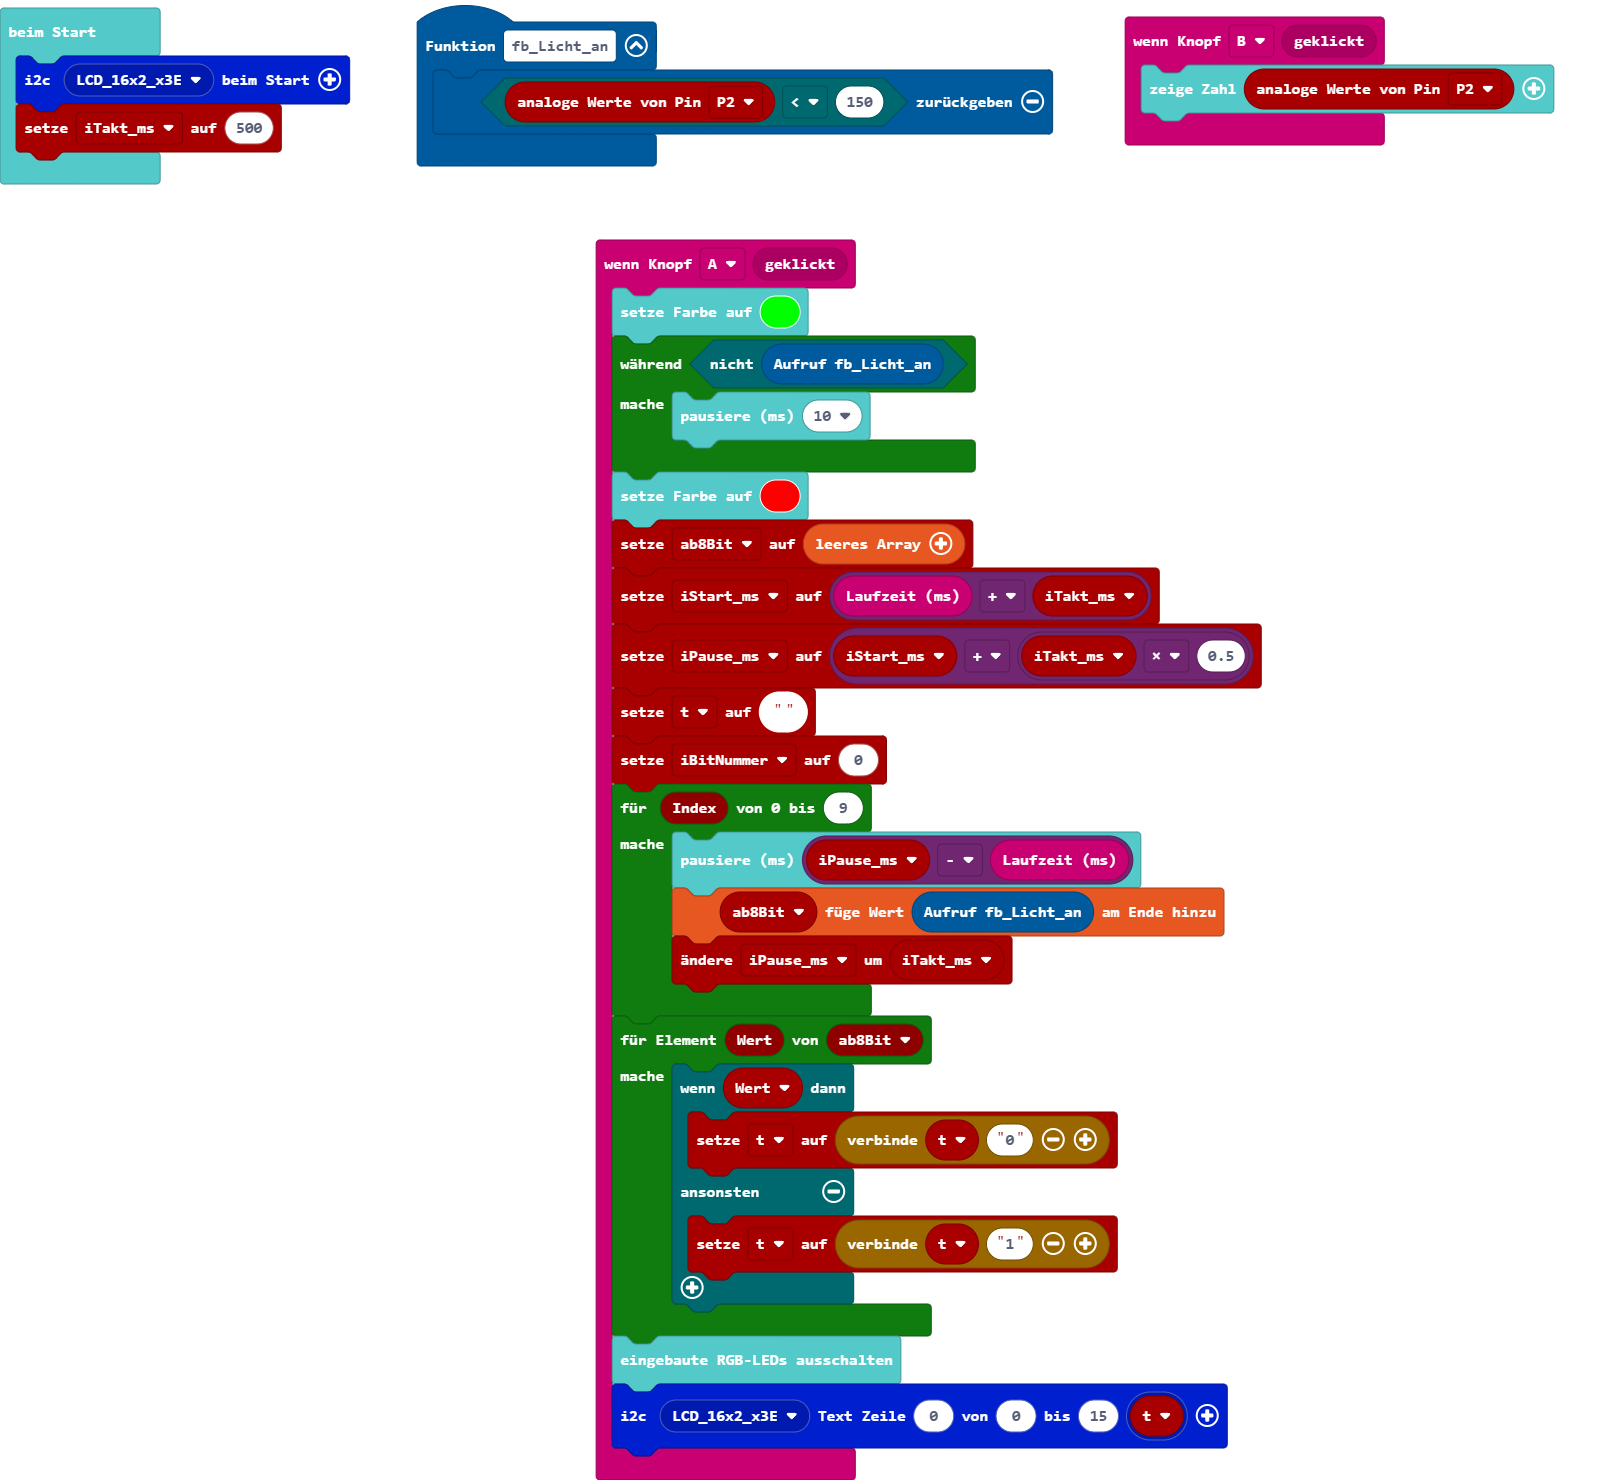
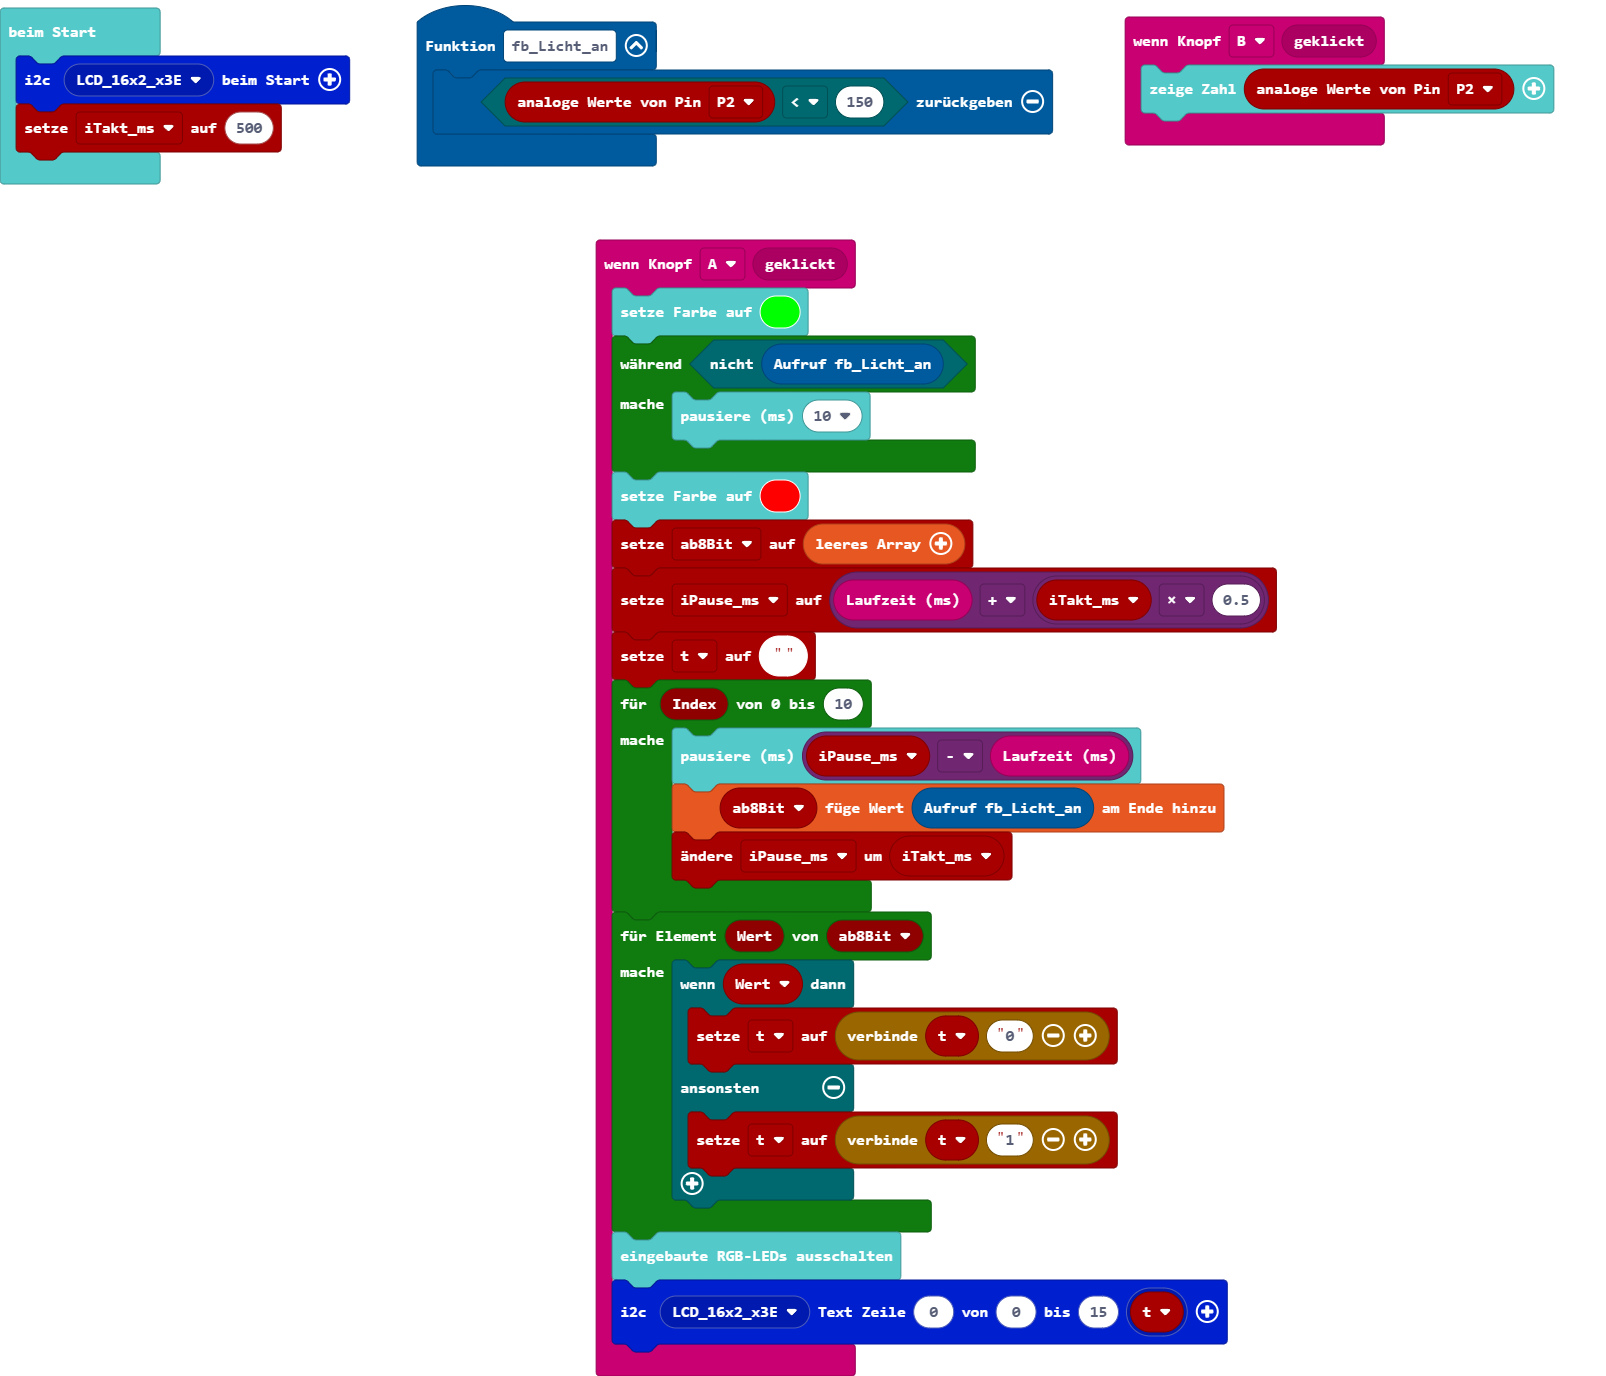
Aktualisiere main.blocks, main.ts

diff --git a/main.ts b/main.ts
@@ -5,11 +5,9 @@ input.onButtonEvent(Button.A, input.buttonEventClick(), function () {
     }
     basic.setLedColor(0xff0000)
     ab8Bit = []
-    iStart_ms = input.runningTime() + iTakt_ms
-    iPause_ms = iStart_ms + iTakt_ms * 0.5
+    iPause_ms = input.runningTime() + iTakt_ms * 0.5
     t = ""
-    iBitNummer = 0
-    for (let Index = 0; Index <= 9; Index++) {
+    for (let Index = 0; Index <= 10; Index++) {
         basic.pause(iPause_ms - input.runningTime())
         ab8Bit.push(fb_Licht_an())
         iPause_ms += iTakt_ms
@@ -30,10 +28,8 @@ function fb_Licht_an () {
 input.onButtonEvent(Button.B, input.buttonEventClick(), function () {
     basic.showNumber(pins.analogReadPin(AnalogPin.P2))
 })
-let iBitNummer = 0
 let t = ""
 let iPause_ms = 0
-let iStart_ms = 0
 let ab8Bit: boolean[] = []
 let iTakt_ms = 0
 lcd16x2rgb.initLCD(lcd16x2rgb.lcd16x2_eADDR(lcd16x2rgb.eADDR_LCD.LCD_16x2_x3E))
